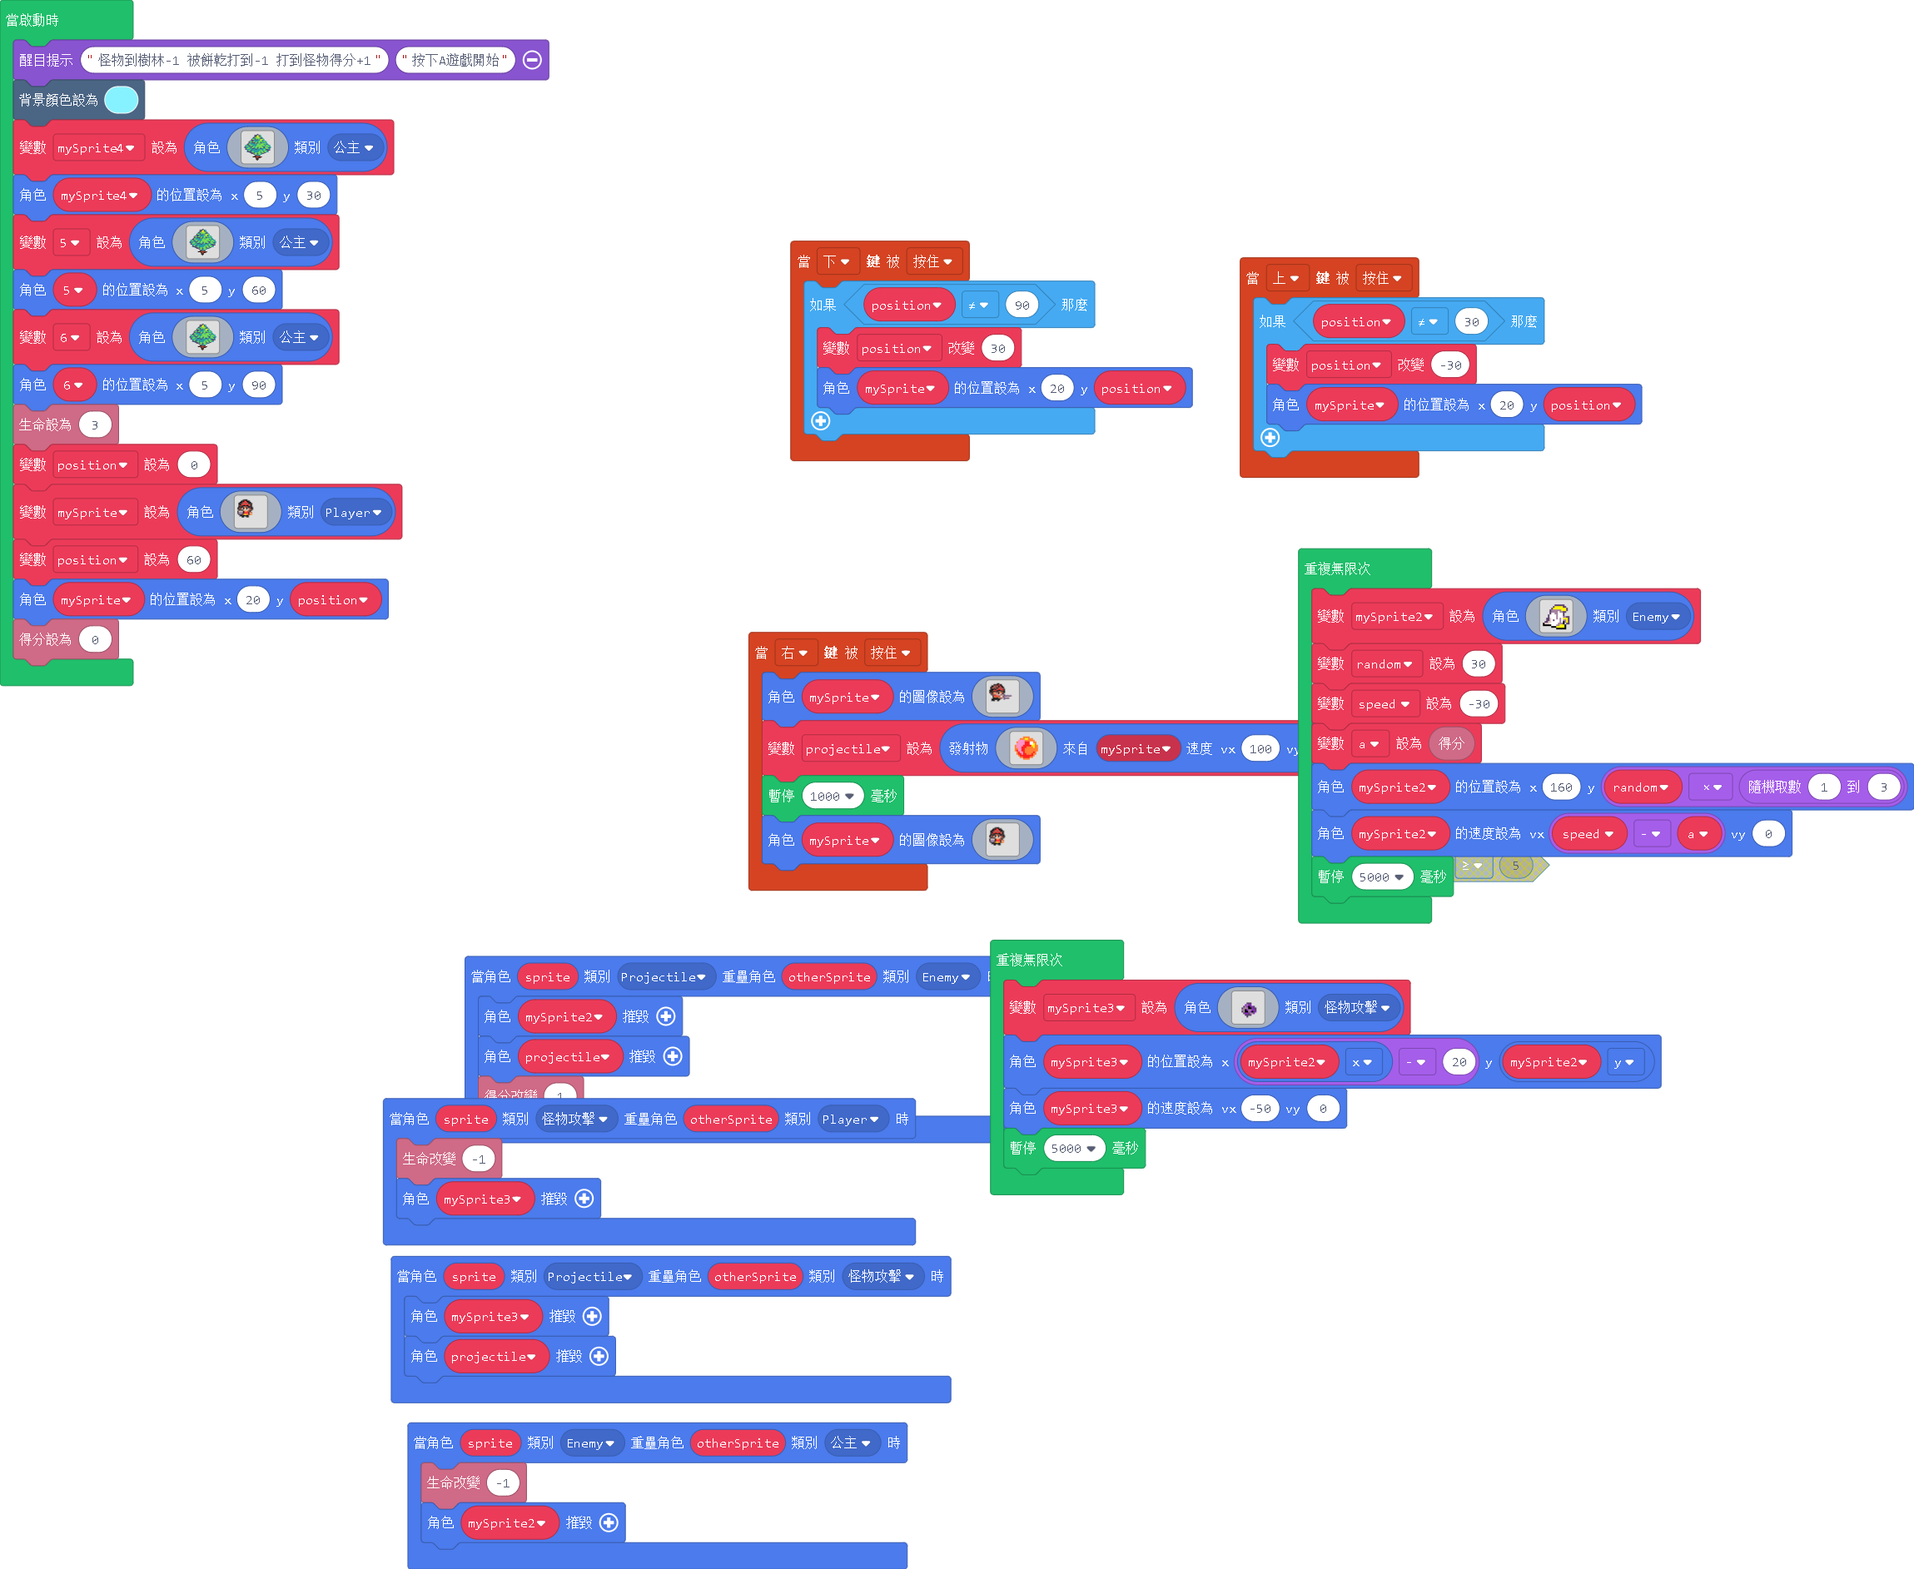
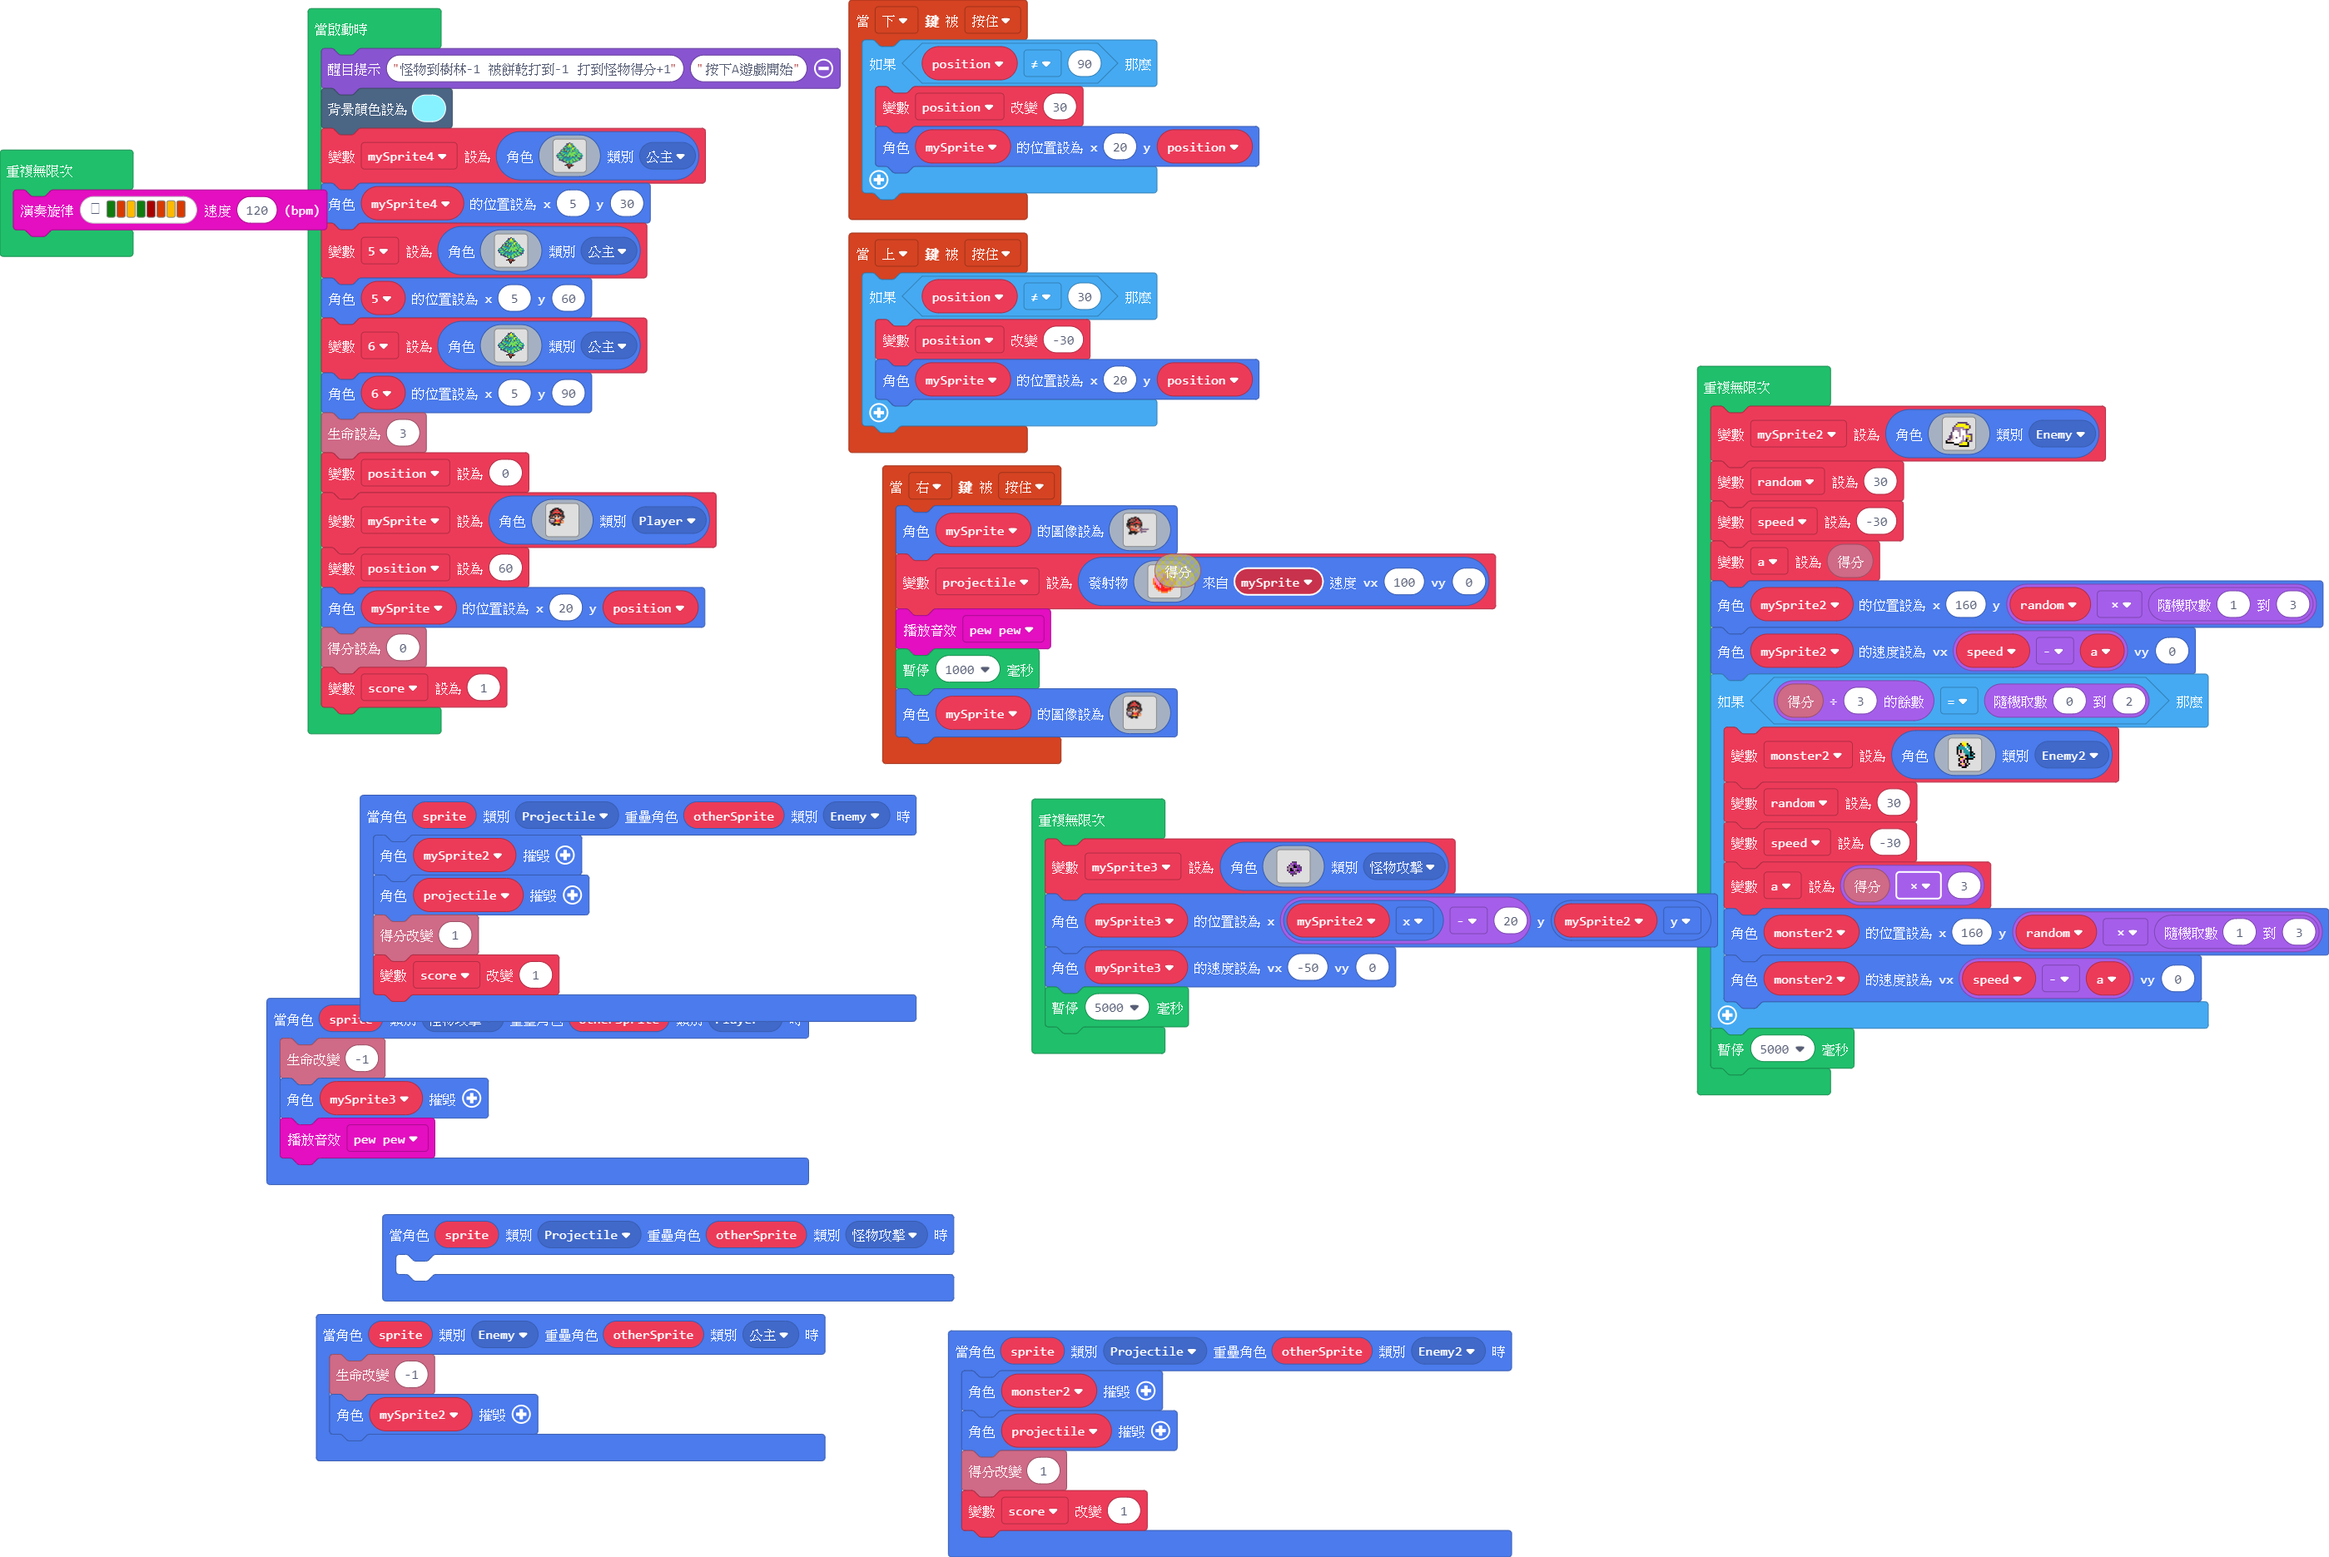
Update main.blocks, main.ts

diff --git a/main.ts b/main.ts
@@ -2,6 +2,7 @@ namespace SpriteKind {
     export const 怪物攻擊 = SpriteKind.create()
     export const 攻擊 = SpriteKind.create()
     export const 公主 = SpriteKind.create()
+    export const Enemy2 = SpriteKind.create()
 }
 controller.down.onEvent(ControllerButtonEvent.Pressed, function () {
     if (position != 90) {
@@ -12,15 +13,16 @@ controller.down.onEvent(ControllerButtonEvent.Pressed, function () {
 sprites.onOverlap(SpriteKind.怪物攻擊, SpriteKind.Player, function (sprite, otherSprite) {
     info.changeLifeBy(-1)
     mySprite3.destroy()
+    music.pewPew.play()
 })
 sprites.onOverlap(SpriteKind.Projectile, SpriteKind.怪物攻擊, function (sprite, otherSprite) {
-    mySprite3.destroy()
-    projectile.destroy()
+	
 })
 sprites.onOverlap(SpriteKind.Projectile, SpriteKind.Enemy, function (sprite, otherSprite) {
     mySprite2.destroy()
     projectile.destroy()
     info.changeScoreBy(1)
+    score += 1
 })
 sprites.onOverlap(SpriteKind.Enemy, SpriteKind.公主, function (sprite, otherSprite) {
     info.changeLifeBy(-1)
@@ -71,6 +73,7 @@ f e f e 4 4 e b f 4 4 e e f . . . . . . . . . .
 . . . . . . 4 4 4 4 . . . . . . 
 . . . . . . . . . . . . . . . . 
 `, mySprite, 100, 0)
+    music.pewPew.play()
     pause(1000)
     mySprite.setImage(img`
 . . . . . . . . . . . . . . . . . . . . . . . . 
@@ -105,11 +108,18 @@ controller.up.onEvent(ControllerButtonEvent.Pressed, function () {
         mySprite.setPosition(20, position)
     }
 })
+sprites.onOverlap(SpriteKind.Projectile, SpriteKind.Enemy2, function (sprite, otherSprite) {
+    monster2.destroy()
+    projectile.destroy()
+    info.changeScoreBy(1)
+    score += 1
+})
 let a = 0
 let speed = 0
 let random = 0
-let mySprite2: Sprite = null
+let monster2: Sprite = null
 let projectile: Sprite = null
+let mySprite2: Sprite = null
 let mySprite3: Sprite = null
 let mySprite: Sprite = null
 let position = 0
@@ -251,6 +261,10 @@ f b b b b f 2 2 2 2 f d 4 . . . . . . . . . . .
 position = 60
 mySprite.setPosition(20, position)
 info.setScore(0)
+let score = 1
+forever(function () {
+    music.playMelody("G B A G C5 B A B ", 120)
+})
 forever(function () {
     mySprite2 = sprites.create(img`
 . . . . . . . . . . . . . . . . 
@@ -275,6 +289,31 @@ f f f f f 1 1 1 b b 5 5 5 f . .
     a = info.score()
     mySprite2.setPosition(160, random * Math.randomRange(1, 3))
     mySprite2.setVelocity(speed - a, 0)
+    if (info.score() % 3 == Math.randomRange(0, 2)) {
+        monster2 = sprites.create(img`
+. . . . . . 5 . 5 . . . . . . . 
+. . . . . f 5 5 5 f . . . . . . 
+. . . . f 6 2 5 5 6 f . . . . . 
+. . . f 6 6 6 6 1 6 6 f . . . . 
+. . . f 6 6 6 6 6 1 6 f . . . . 
+. . . f d f d 6 6 6 1 f . . . . 
+. . . f d f d 6 6 6 6 f f . . . 
+. . . f d 3 d d 6 6 6 f 6 f . . 
+. . . . f d d d f f 6 f f . . . 
+. . . . . f f 5 3 f 6 6 6 f . . 
+. . . . f 5 3 3 f f f f f . . . 
+. . . . f 3 3 f d f . . . . . . 
+. . . . . f 3 f d f . . . . . . 
+. . . . f 3 5 3 f d f . . . . . 
+. . . . f f 3 3 f f . . . . . . 
+. . . . . . f f f . . . . . . . 
+`, SpriteKind.Enemy2)
+        random = 30
+        speed = -30
+        a = info.score() * 3
+        monster2.setPosition(160, random * Math.randomRange(1, 3))
+        monster2.setVelocity(speed - a, 0)
+    }
     pause(5000)
 })
 forever(function () {
